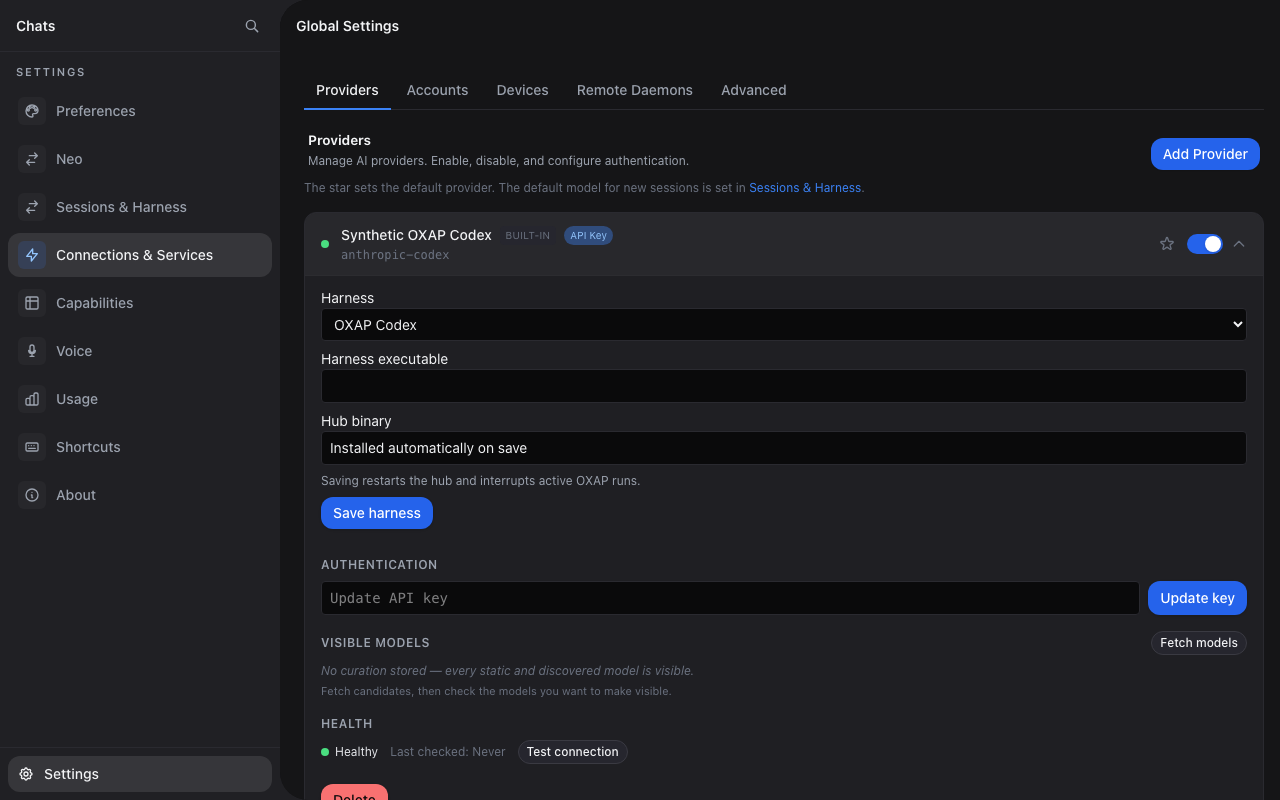
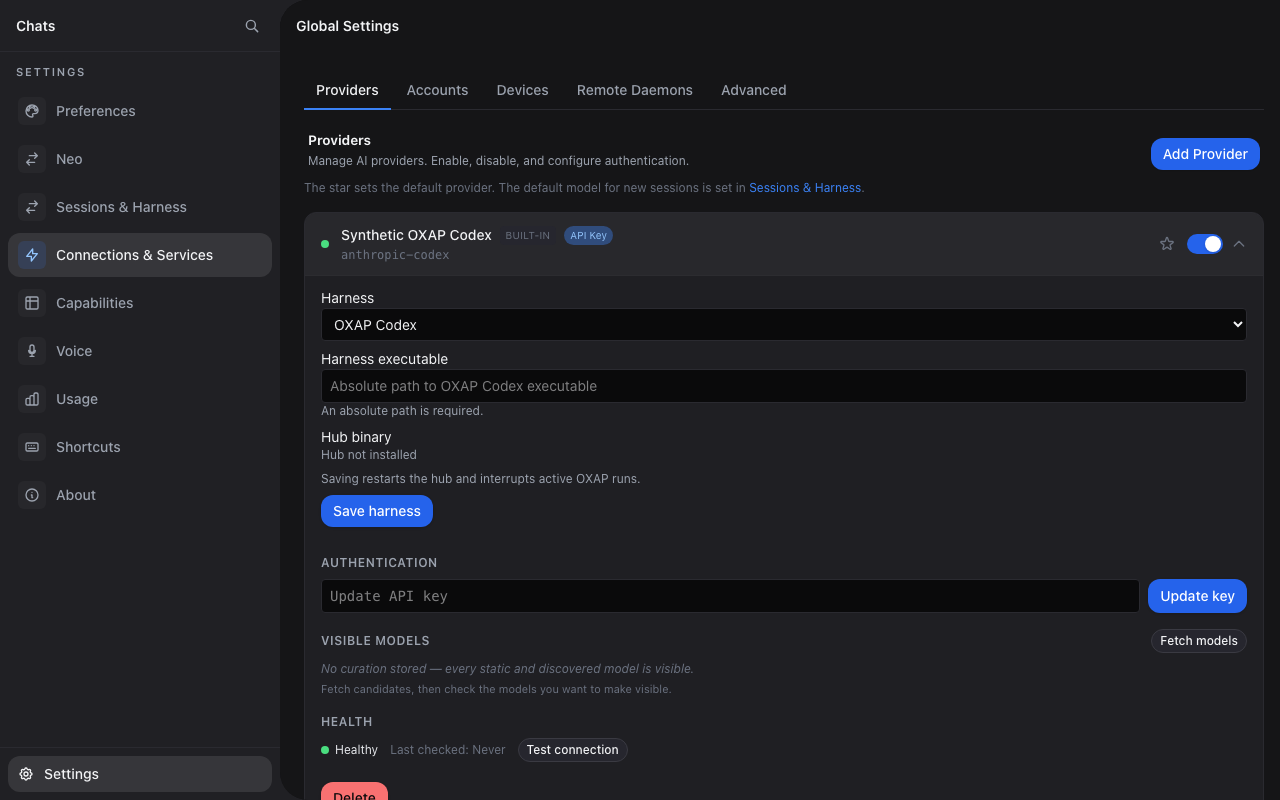
fix: show OXAP hub installation details
Make the installed binary identity and executable requirement clear in provider settings.

diff --git a/packages/web/src/components/settings/ProvidersSettings.tsx b/packages/web/src/components/settings/ProvidersSettings.tsx
@@ -5,7 +5,12 @@ import { ChevronDownGlyph } from '../icons/common-glyphs.tsx';
 import { useEffect, useRef, useState } from 'preact/hooks';
 import { useSignalEffect } from '@preact/signals';
 import { GLOBAL_SYSTEM_SNAPSHOT_REQUEST, STATE_CHANNELS } from '@hyperneo/shared';
-import type { ProviderRecord, CredentialStoreStatus, GlobalSystemSnapshot } from '@hyperneo/shared';
+import type {
+  ProviderRecord,
+  CredentialStoreStatus,
+  GlobalSystemSnapshot,
+  GlobalSettings,
+} from '@hyperneo/shared';
 import type { ProviderAuthStatus, CuratedModel } from '@hyperneo/shared/provider';
 import {
   updateGlobalSettings,
@@ -197,7 +202,7 @@ export function ProvidersSettings() {
       setSavingAllowlist(false);
     }
   };
-  const [hubPath, setHubPath] = useState<string | undefined>(undefined);
+  const [hubBinary, setHubBinary] = useState<GlobalSettings['oxapHub']>();
   const [harnessDrafts, setHarnessDrafts] = useState<
     Record<string, { harness: string; executable: string }>
   >({});
@@ -830,7 +835,7 @@ export function ProvidersSettings() {
           STATE_CHANNELS.GLOBAL_SNAPSHOT,
           GLOBAL_SYSTEM_SNAPSHOT_REQUEST
         );
-        setHubPath(snapshot.settings?.settings?.oxapHub?.path);
+        setHubBinary(snapshot.settings?.settings?.oxapHub);
       } catch {
         toast.warning('Harness saved, but the hub path could not be refreshed.');
       }
@@ -987,6 +992,7 @@ export function ProvidersSettings() {
                   harness: config.harness ?? 'sdk',
                   executable: config.harnessSettings?.executable ?? '',
                 };
+                const installedHub = hubBinary ?? globalSettings.value?.oxapHub;
                 const isExpanded = expandedId === provider.id;
                 const isPending = pendingId === provider.id;
                 const isCustom = provider.kind === 'custom_endpoint';
@@ -1152,6 +1158,7 @@ export function ProvidersSettings() {
                                     Harness executable
                                     <input
                                       aria-label="Harness executable"
+                                      placeholder={`Absolute path to ${oxapHarness(draft.harness).label} executable`}
                                       value={draft.executable}
                                       onInput={(e) =>
                                         setHarnessDrafts((prev) => ({
@@ -1164,21 +1171,32 @@ export function ProvidersSettings() {
                                       }
                                       class="block w-full bg-bg border border-line rounded px-2 py-1.5"
                                     />
+                                    <span class="block text-xs text-fg-muted">
+                                      An absolute path is required.
+                                    </span>
                                   </label>
                                 )}
-                                <label class="block text-sm">
-                                  Hub binary
-                                  <input
-                                    aria-label="Hub binary"
-                                    readOnly
-                                    value={
-                                      hubPath ??
-                                      globalSettings.value?.oxapHub?.path ??
-                                      'Installed automatically on save'
-                                    }
-                                    class="block w-full bg-bg border border-line rounded px-2 py-1.5"
-                                  />
-                                </label>
+                                <div class="text-sm">
+                                  <p>Hub binary</p>
+                                  {installedHub ? (
+                                    <dl class="mt-1 space-y-1 text-xs text-fg-muted break-all">
+                                      <div>
+                                        <dt class="inline">Path: </dt>
+                                        <dd class="inline">{installedHub.path}</dd>
+                                      </div>
+                                      <div>
+                                        <dt class="inline">Version: </dt>
+                                        <dd class="inline">{installedHub.version}</dd>
+                                      </div>
+                                      <div>
+                                        <dt class="inline">SHA-256: </dt>
+                                        <dd class="inline">{installedHub.sha256}</dd>
+                                      </div>
+                                    </dl>
+                                  ) : (
+                                    <p class="text-xs text-fg-muted">Hub not installed</p>
+                                  )}
+                                </div>
                                 <p class="text-xs text-fg-muted">
                                   Saving restarts the hub and interrupts active OXAP runs.
                                 </p>

diff --git a/.claude/skills/verify/oxap-create-thinking-fixture.ts b/.claude/skills/verify/oxap-create-thinking-fixture.ts
@@ -62,6 +62,10 @@ const transport = new WebSocketClientTransport({
 rpc.registerTransport(transport);
 await transport.initialize();
 await rpc.request('providers.create', oxapCodexProvider);
+await rpc.request('providers.create', {
+  params: { providerId: 'anthropic', displayName: 'Synthetic SDK', kind: 'built_in', authType: 'api_key', isEnabled: true, isDefault: false, sortOrder: 2 },
+  credentials: { apiKey: 'sk-devproxy-test-key' },
+});
 setModelsCache(
   new Map([
     [
@@ -77,6 +81,10 @@ setModelsCache(
           description: '',
           releaseDate: '',
           available: true,
+        },
+        {
+          id: 'synthetic-sdk', name: 'Synthetic SDK Model', alias: 'synthetic-sdk', family: 'sonnet',
+          provider: 'anthropic', contextWindow: 128000, description: '', releaseDate: '', available: true,
         },
       ],
     ],

diff --git a/packages/web/src/components/settings/__tests__/ProvidersSettings.test.tsx b/packages/web/src/components/settings/__tests__/ProvidersSettings.test.tsx
@@ -620,7 +620,7 @@ describe('ProvidersSettings', () => {
       target: { value: 'oxap-codex' },
     });
     expect(screen.getByText('Hub not installed')).toBeTruthy();
-    expect(screen.getByPlaceholderText('Absolute path to the Codex executable')).toBeTruthy();
+    expect(screen.getByPlaceholderText('Absolute path to OXAP Codex executable')).toBeTruthy();
     expect(screen.getByText('An absolute path is required.')).toBeTruthy();
     fireEvent.input(screen.getByLabelText('Harness executable'), {
       target: { value: '/synthetic/codex' },

diff --git a/.claude/skills/verify/journeys/oxap-create-thinking.md b/.claude/skills/verify/journeys/oxap-create-thinking.md
@@ -27,3 +27,7 @@ attachment action. Keep `oxap-menu-light.png` and `oxap-menu-dark.png`.
 
 A synthetic auth status card displays a URL followed by punctuation. The browser
 checks the link destination excludes that punctuation and keeps `auth-link.png`.
+
+Retain the OXAP and SDK picker and tools screenshots in both themes. The picker
+checks that OXAP omits SDK models and thinking, while SDK shows thinking and the
+Tools/MCP panel. Settings show path, version and hash after the fixture install.
